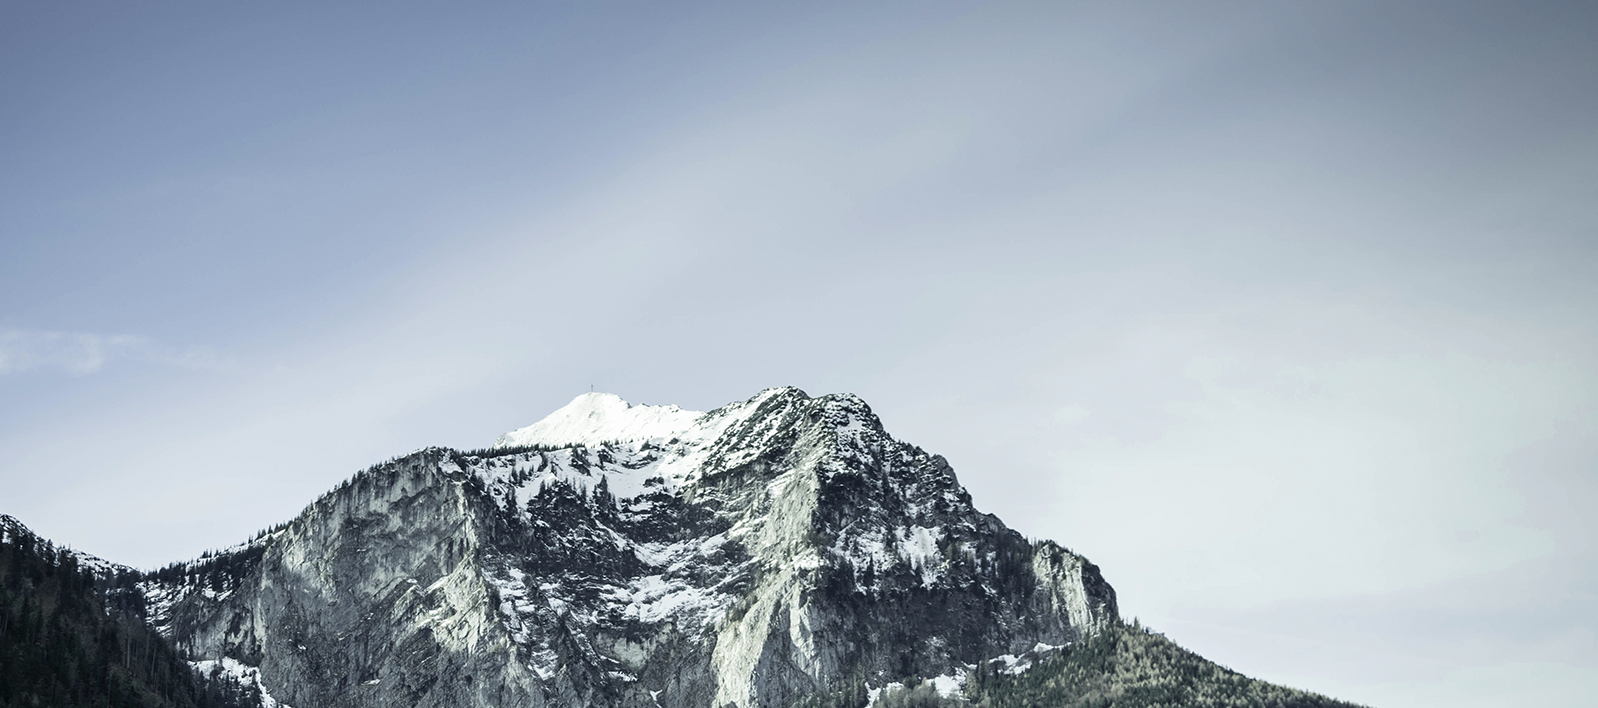
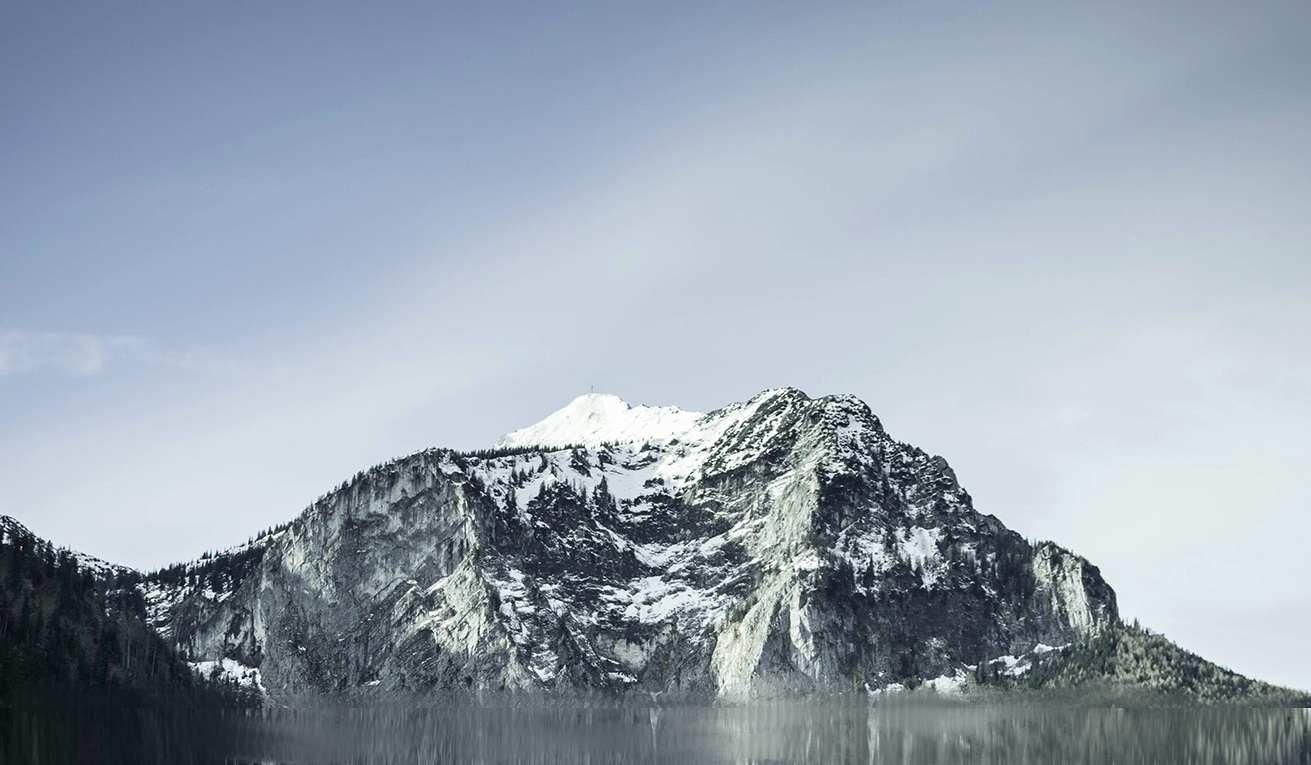
updated readme and slide1

diff --git a/style.css b/style.css
@@ -158,19 +158,21 @@ nav {
   
 .mid-section .history {
     position: absolute;
-    bottom: 50%;
-    right: 2%;
     color: black;
-    padding-left: 10%;
-    padding-right: 10%;
+    margin-right: 20%;
 }
 .history h4 {
     color: #414f6b;
     font-family: "novecento-sans-condensed", sans-serif;
     font-size: calc(5vw + 1px); 
+    position: absolute;
+    bottom: 120%;
+    left: 29%;
 }
 .history p {
     font-size: calc(1vw + 1px); 
+    position: relative;
+    left: 16.5%;
 }
 /* The number that is tied with History */
 .number h4 {
@@ -178,10 +180,8 @@ nav {
     font-family: "novecento-sans-condensed", sans-serif;
     font-size: calc(11vw + 1px);
     position: absolute;
-    bottom: 55.35%;
-    right: 78%;
-    padding-left: 10%;
-    padding-right: 10%;
+    bottom: 55.75%;
+    right: 75%;
 }
 
 /* Image overlay 

diff --git a/index.html b/index.html
@@ -68,7 +68,7 @@
             <!-- Wrapper for slides -->
             <div class="carousel-inner">
               <div class="item active">
-                <img src="img/slide4.png" alt="Mountain">
+                <img src="img/slide1.png" alt="Mountain">
               </div>
           
               <div class="item">
@@ -84,7 +84,7 @@
         <div class="imageOverlay">
             <div class="row">
                 <div class="column">
-                <img src="img/slide4.png" alt="First Mountain" onclick="gallery(this);">
+                <img src="img/slide1.png" alt="First Mountain" onclick="gallery(this);">
                 </div>
                 <div class="column">
                 <img src="img/slide2.png" alt="Second Mountain" onclick="gallery(this);">

diff --git a/README.md b/README.md
@@ -6,6 +6,8 @@ I created this project using Illustrator, GIMP, Visual Studio Code, youtube, and
 
 ## Ambiguous Design Notes
 ### Carousel
-I was unsure how the carousel was supposed to display the minimized images. In the supplied PSD file, it had repeats of images in the carousel. I could not wrap
-my head around what functionality would make this desirable. I would normally implement an Agile method to check early and often with the client to confirm that
-the product I am supplying is as desired; however, as this is an interview assessment I did not see this as a good option. 
+I was unsure how the carousel was supposed to display the minimized images. In the supplied PSD file, it had repeats of images in the carousel. I could not wrap my head around what functionality would make this desirable. I would normally implement an Agile method to check early and often with the client to confirm that the product I am supplying is as desired; however, as this is an interview assessment I did not see this as a good option. 
+### Images
+This is the first time I have worked with Illustrator and I was having trouble extracting the images from it. I had to find some online to complete the project.
+### Second Tab
+Do to the trouble with Illustrator, I was unable to see what the second tab (Mountain 2) is supposed to look like. I programmed it to the best of my ability without being able to see it.
